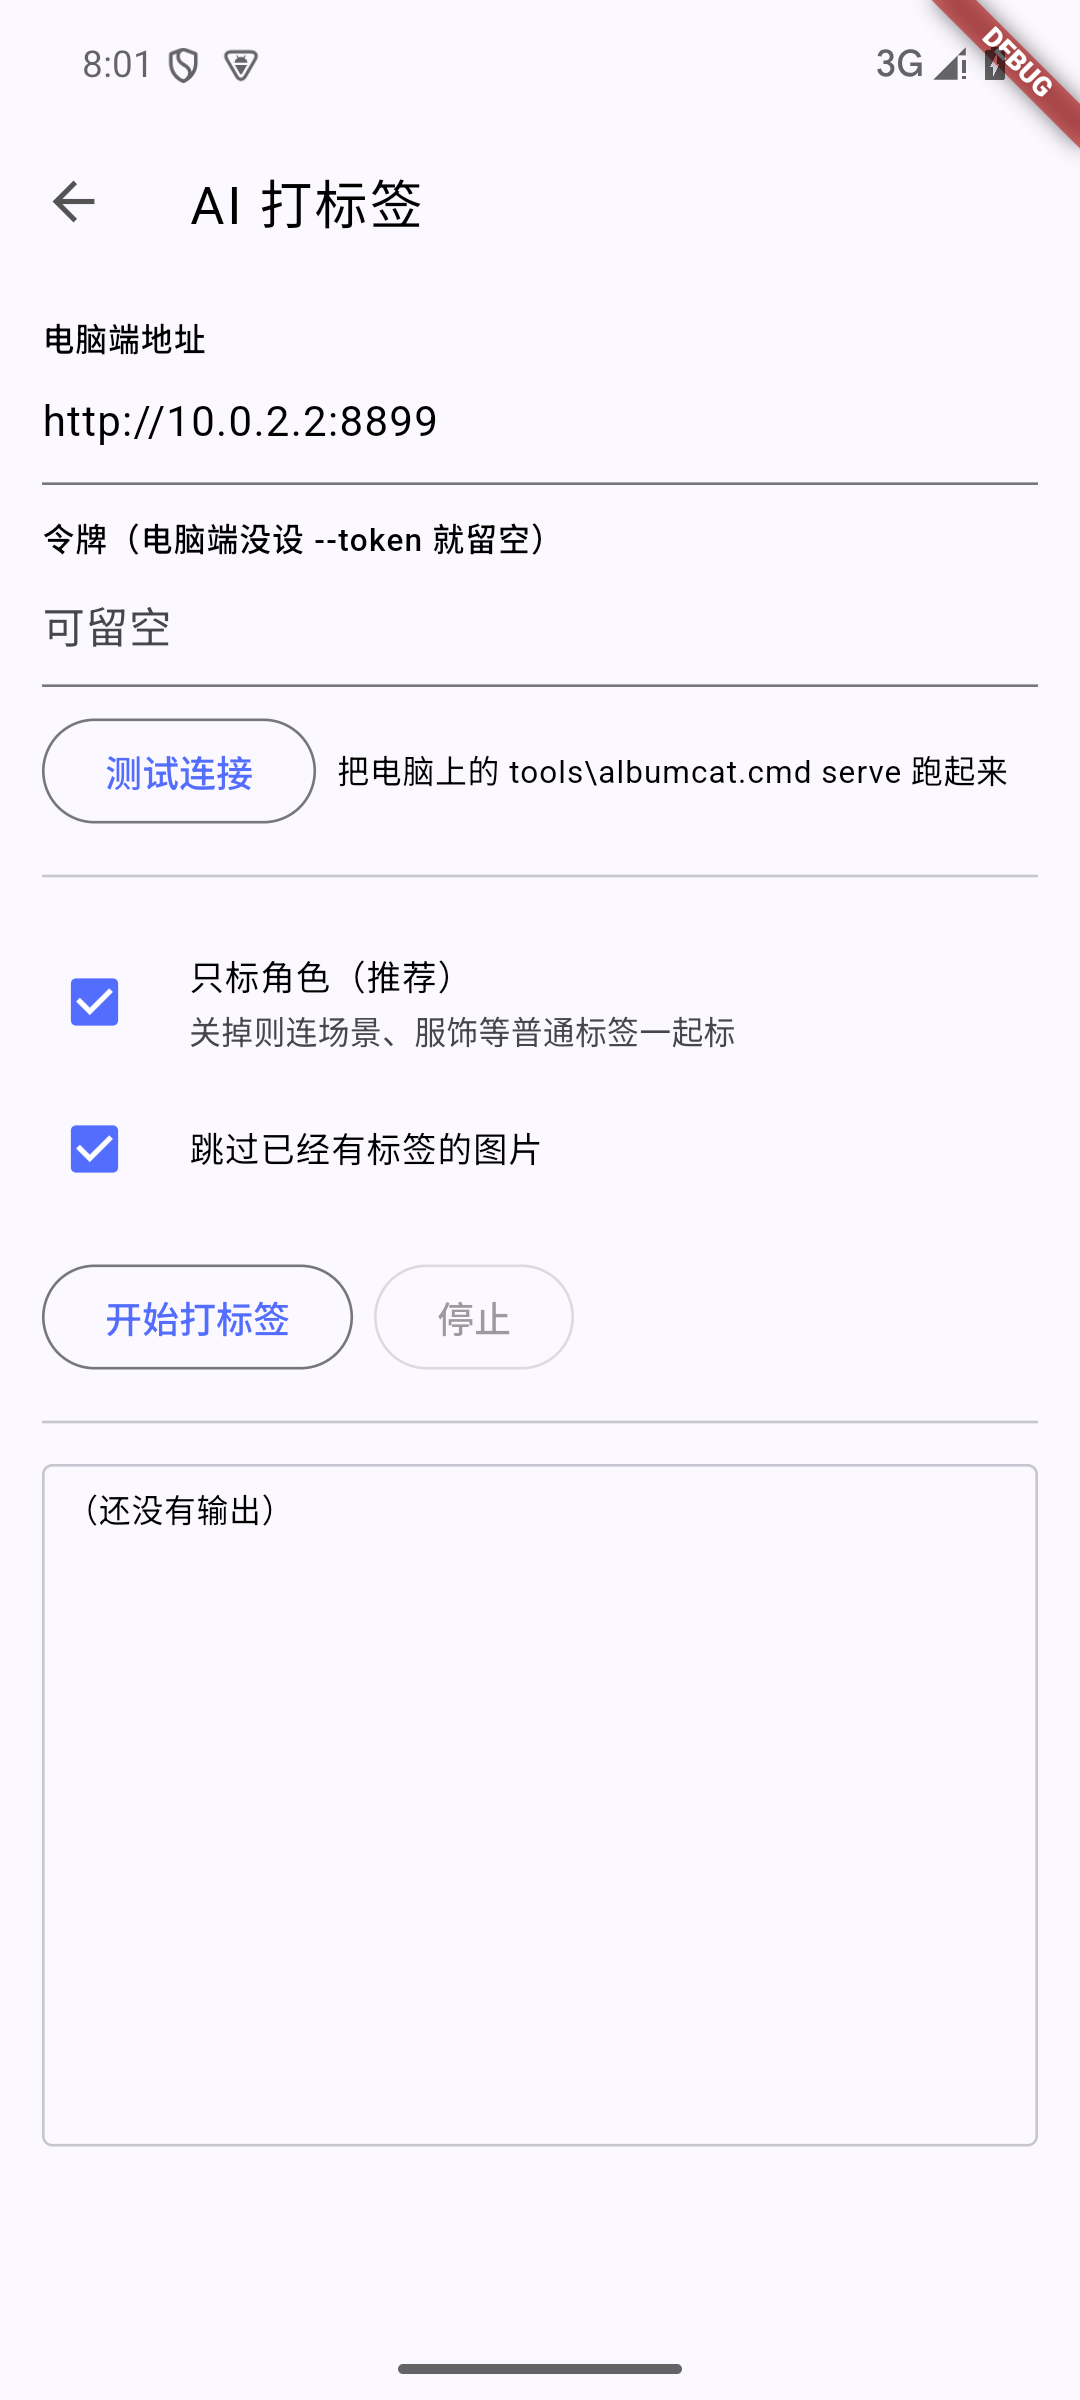
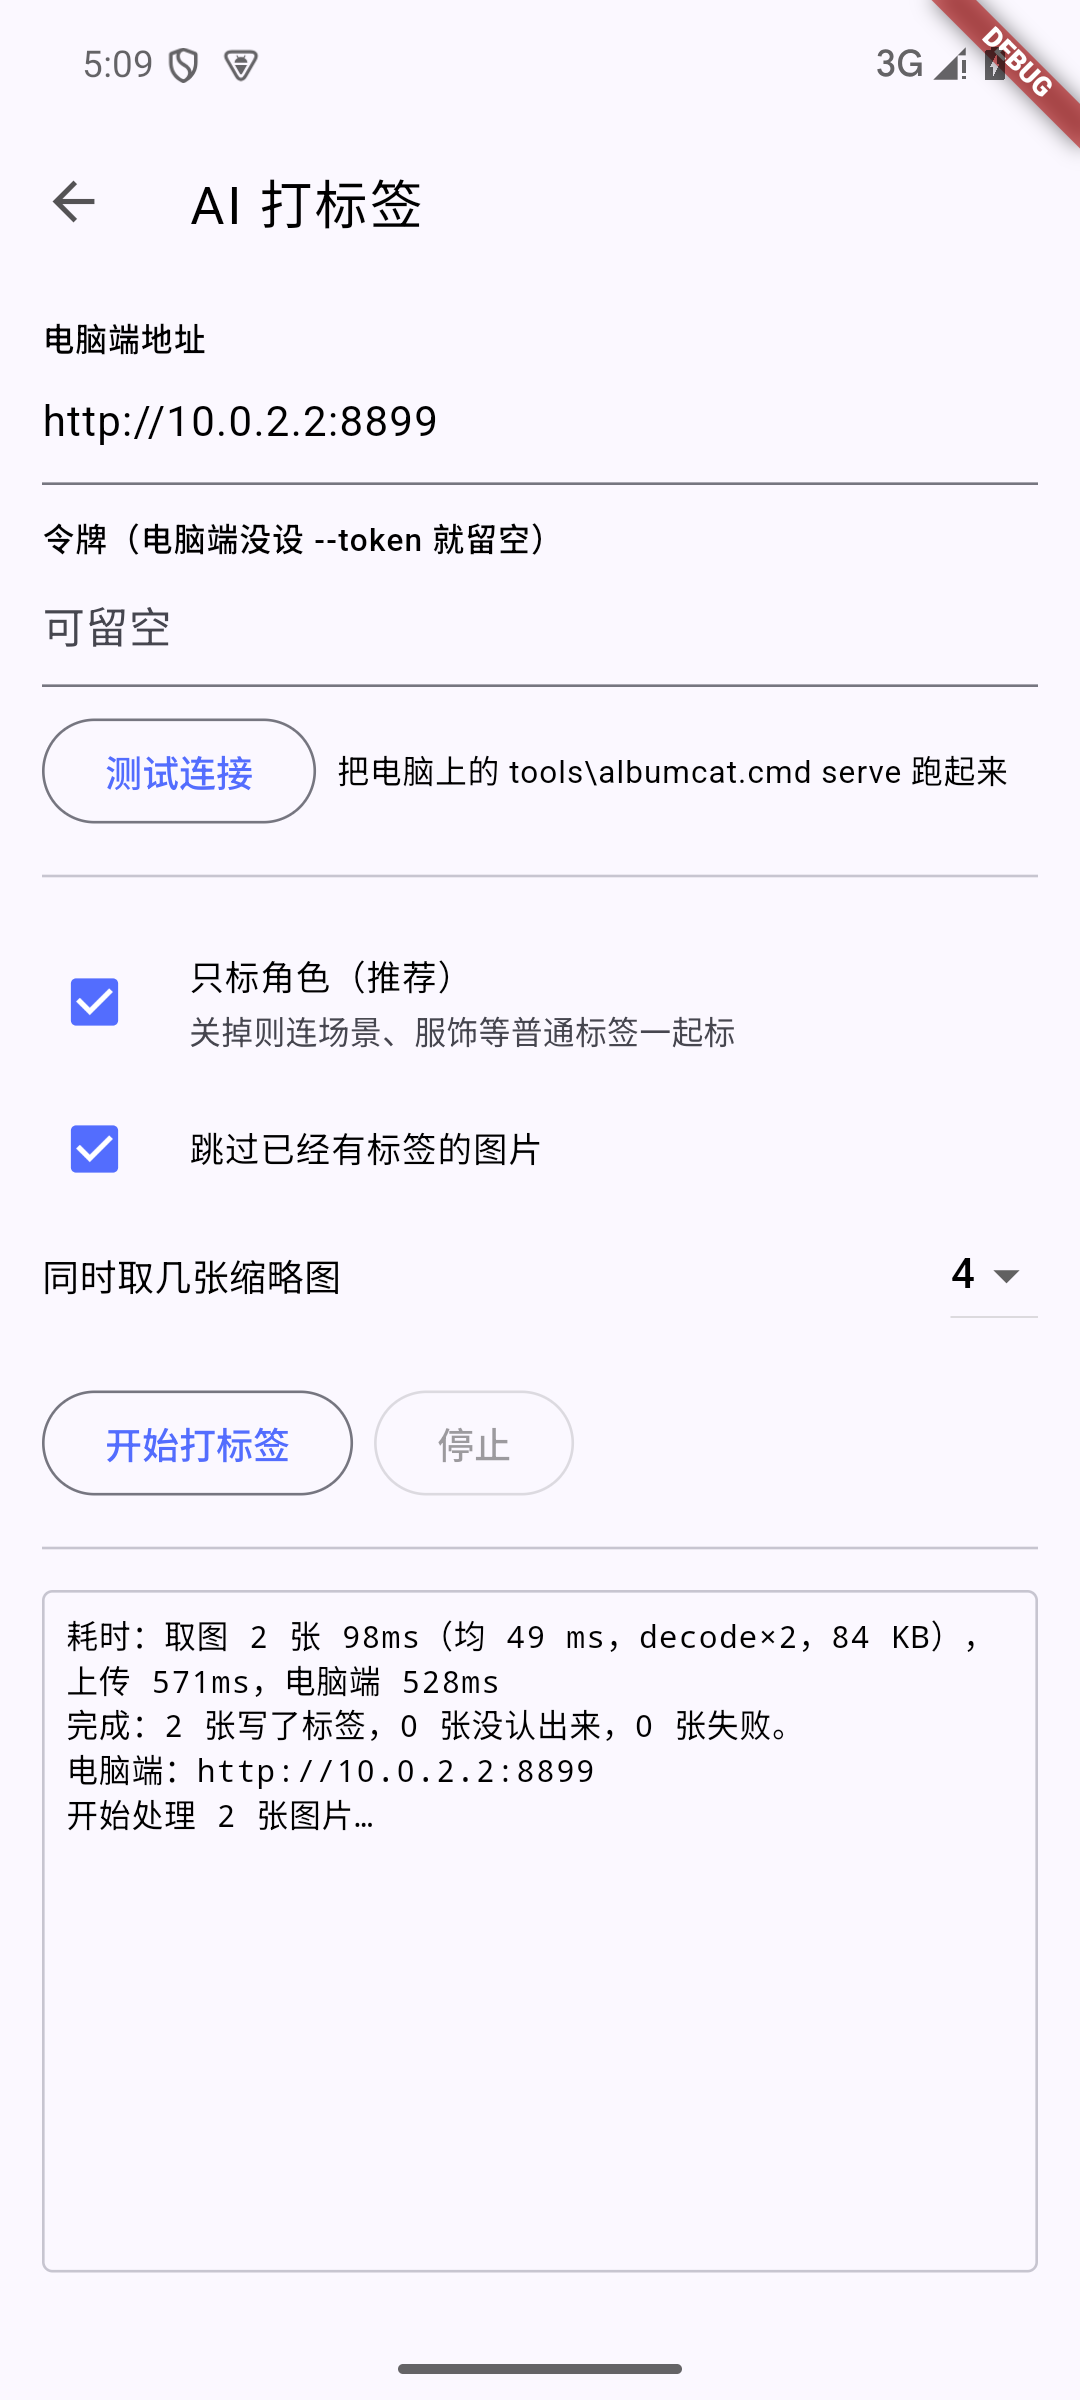
docs: 换样例图并重截 README 预览图

diff --git a/tools/make_aves_probe.py b/tools/make_aves_probe.py
@@ -52,13 +52,13 @@ SENTINEL = "AVES-PROBE-1234"
 SAMPLES: dict[str, tuple[str, str]] = {
     "f52b341d2a083d34bc607a4dd6457545.jpg": ("Kasane Teto", "Vocaloid"),
     "7fe97f53b11ab42ba94084450e3e92d4.jpg": ("Shameimaru Aya", "Touhou Project"),
-    "97e5e12787c3d0b146edd718e57e6d7c.jpg": ("Hakurei Reimu", "Touhou Project"),
+    "05acb463acd2427a65412bf1dbf9ceb5.jpg": ("Hakurei Reimu", "Touhou Project"),
 }
 
 # One of the above, re-encoded as PNG. Only one: a PNG of a full-size photo is
 # several MB, and one is enough to answer the question. See the module docstring
 # for why a JPEG-only probe is not enough.
-PNG_FROM = "97e5e12787c3d0b146edd718e57e6d7c.jpg"
+PNG_FROM = "05acb463acd2427a65412bf1dbf9ceb5.jpg"
 
 
 def probe_fields(character: str, series: str) -> tuple[list[str], list[str]]:

diff --git a/tools/smoke_device.py b/tools/smoke_device.py
@@ -73,7 +73,7 @@ TREE_URI = "content://com.android.externalstorage.documents/tree/primary%3ADCIM%
 # kind of file a phone actually produces.
 PHOTOS = [
     "samples/7fe97f53b11ab42ba94084450e3e92d4.jpg",
-    "samples/97e5e12787c3d0b146edd718e57e6d7c.jpg",
+    "samples/05acb463acd2427a65412bf1dbf9ceb5.jpg",
     "samples/f52b341d2a083d34bc607a4dd6457545.jpg",
     "samples/698bb1e8a6e2b4e22e686a66f433d9e4.png",
 ]

diff --git a/tools/make_alpha_probe.py b/tools/make_alpha_probe.py
@@ -13,7 +13,7 @@ from pathlib import Path
 from PIL import Image
 
 ROOT = Path(r"E:\AlbumCategories")
-SRC = ROOT / "samples" / "97e5e12787c3d0b146edd718e57e6d7c.jpg"
+SRC = ROOT / "samples" / "05acb463acd2427a65412bf1dbf9ceb5.jpg"
 DEST = ROOT / ".tmp" / "aves-probe" / "zz-alpha-reimu.png"
 
 im = Image.open(SRC).convert("RGB")
